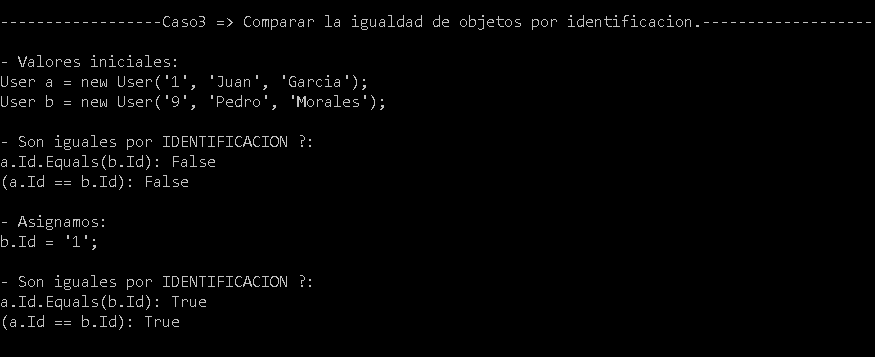
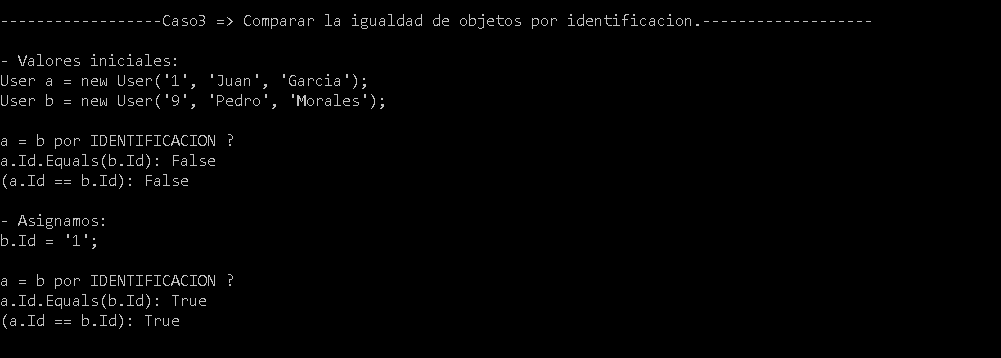
.

diff --git a/Caso1/Compare.cs b/Caso1/Compare.cs
@@ -13,21 +13,16 @@ namespace CompareObjects.Caso1
             Console.WriteLine("\n------------------Caso1 => Comparar la igualdad de objetos por referencia.-------------------");
 
             Caso1.User a = new Caso1.User("Juan", "Perez");
-            Caso1.User b = new Caso1.User("Pedro", "Gonzales");
+            Caso1.User b = new Caso1.User("Juan", "Perez");
 
-            Console.WriteLine("\n- Valores iniciales:\nUser a = new User('Juan','Perez');\nUser b = new User('Pedro', 'Gonzales');\n");
-            CompareReferenceEquals(a, b);
+            Console.WriteLine("\n- Valores iniciales:\nUser a = new User('Juan','Perez');\nUser b = new User('Juan', 'Perez');\n");
+            Console.WriteLine($"a = b por REFERENCIA ?: {object.ReferenceEquals(a, b)}");
 
             // Asignamos
             b = a;
 
             Console.WriteLine("\n- Asignamos:\n b = a;\n");
-            CompareReferenceEquals(a, b);
-        }
-
-        private static void CompareReferenceEquals(Caso1.User a, Caso1.User b)
-        {
-            Console.WriteLine($"- Son iguales por REFERENCIA ?: {object.ReferenceEquals(a, b)}");
+            Console.WriteLine($"a = b por REFERENCIA ?: {object.ReferenceEquals(a, b)}");
         }
     }
 }

diff --git a/Caso2/Compare.cs b/Caso2/Compare.cs
@@ -16,18 +16,13 @@ namespace CompareObjects.Caso2
             Caso2.User b = new Caso2.User("Pedro", "Perez");
 
             Console.WriteLine("\n- Valores iniciales:\nUser a = new User('Juan', 'Perez');\nUser b = new User('Pedro', 'Perez');\n");
-            CompareValuesEquals(a, b);
+            Console.WriteLine($"a = b por VALOR ?: {a.Equals(b)}");
 
             // Asignamos
             b.Name = "Juan";
 
             Console.WriteLine("\n- Asignamos:\nb.Name = 'Juan';\n");
-            CompareValuesEquals(a, b);
-        }
-
-        public static void CompareValuesEquals(Caso2.User a, Caso2.User b)
-        {
-            Console.WriteLine($"- Son iguales por VALOR ?: {a.Equals(b)}");
+            Console.WriteLine($"a = b por VALOR ?: {a.Equals(b)}");
         }
     }
 }

diff --git a/Caso2/User.cs b/Caso2/User.cs
@@ -1,14 +1,9 @@
 namespace CompareObjects.Caso2
 {
-    public class User
+    public class User : Caso1.User
     {
-        public string Name { get; set; }
-        public string Surname { get; set; }
-
-        public User(string name, string surname)
+        public User(string name, string surname) : base(name, surname)
         {
-            Name = name;
-            Surname = surname;
         }
 
         #region Equals

diff --git a/Caso3/Compare.cs b/Caso3/Compare.cs
@@ -27,7 +27,7 @@ namespace CompareObjects.Caso3
 
         public static void CompareIdentifierEquals(Caso3.User a, Caso3.User b)
         {
-            Console.WriteLine("- Son iguales por IDENTIFICACION ?:");
+            Console.WriteLine($"a = b por IDENTIFICACION ? ");
             Console.WriteLine($"a.Id.Equals(b.Id): {a.Id.Equals(b.Id)}");
             Console.WriteLine($"(a.Id == b.Id): {a.Id == b.Id}");
         }

diff --git a/Caso3/User.cs b/Caso3/User.cs
@@ -2,14 +2,14 @@
 {
     public class User : EntityBase
     {
+        public string Name { get; set; }
+        public string Surname { get; set; }
+
         public User(string id, string name, string surname)
         {
             Id = id;
             Name = name;
             Surname = surname;  
         }
-
-        public string Name { get; set; }
-        public string Surname { get; set; }
     }
 }

diff --git a/Caso1/User.cs b/Caso1/User.cs
@@ -2,13 +2,13 @@
 {
     public class User
     {
+        public string Name { get; set; }
+        public string Surname { get; set; }
+
         public User(string name, string surname)
         {
             Name = name;
             Surname = surname;
         }
-
-        public string Name { get; set; }
-        public string Surname { get; set; }
     }
 }

diff --git a/ReadMe.md b/ReadMe.md
@@ -35,3 +35,8 @@ Comparar la igualdad de objetos por identificacion.
 Compararlos por sus identificaciones, en este caso vamos a crear una clase base para evitar duplicar codigo en cada objeto.
 ### Resultado
 ![Screenshot](Screenshots/identifier.png)
+
+## Testeado
+Visual Studio 2017
+.Net Core 2.x
+C# 7.x
